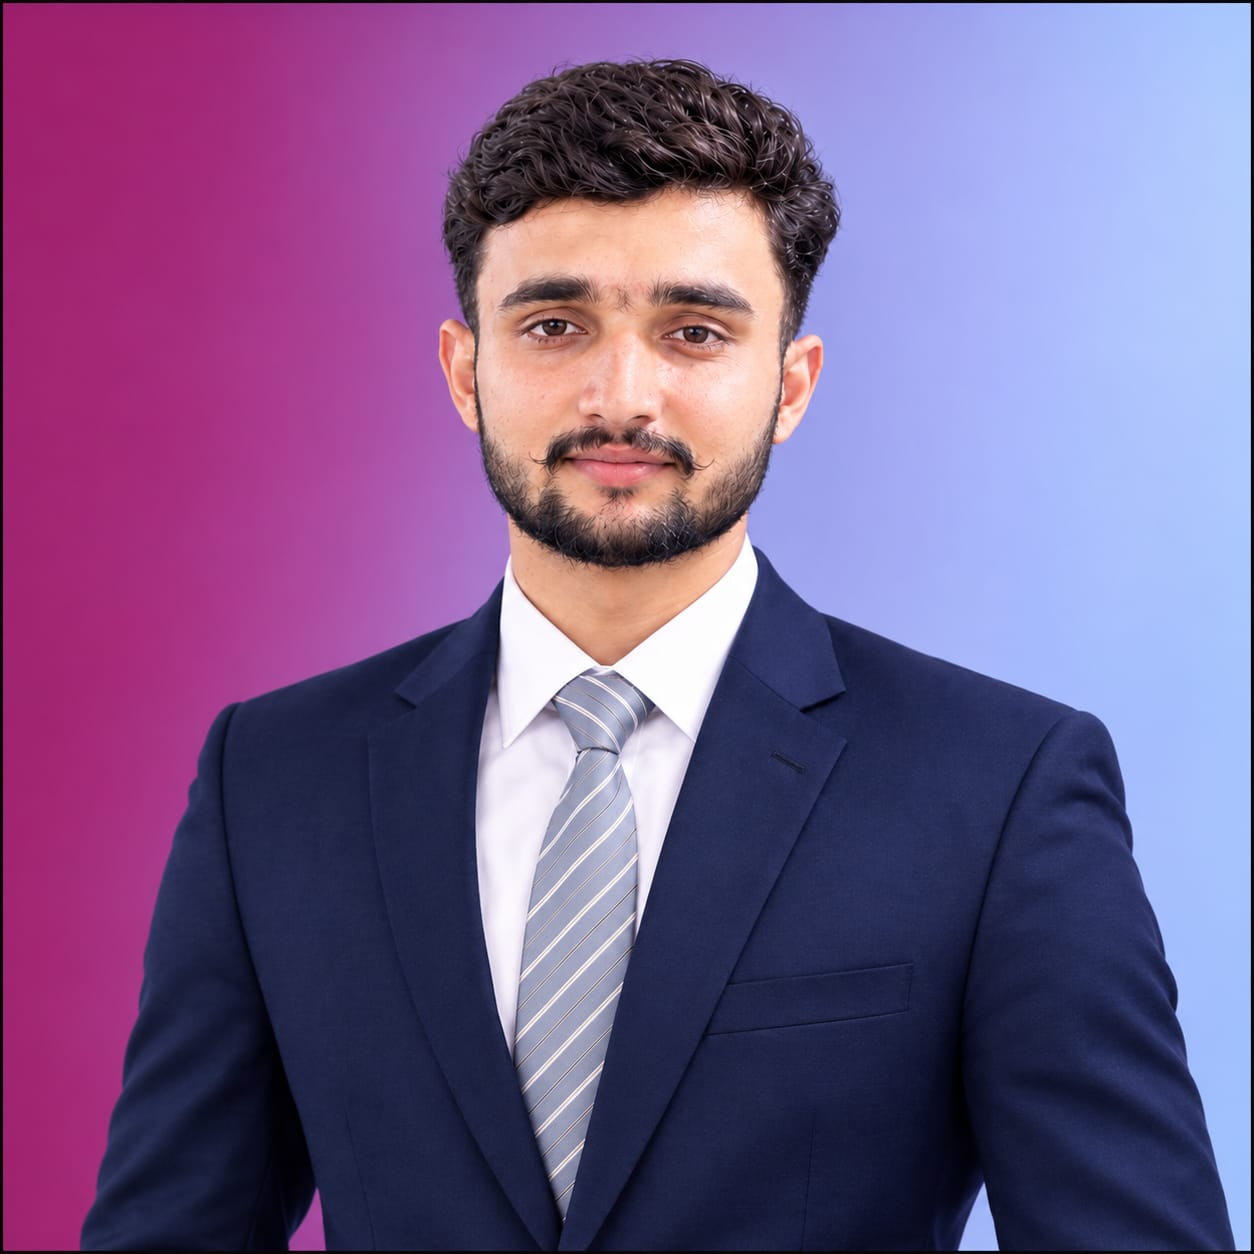
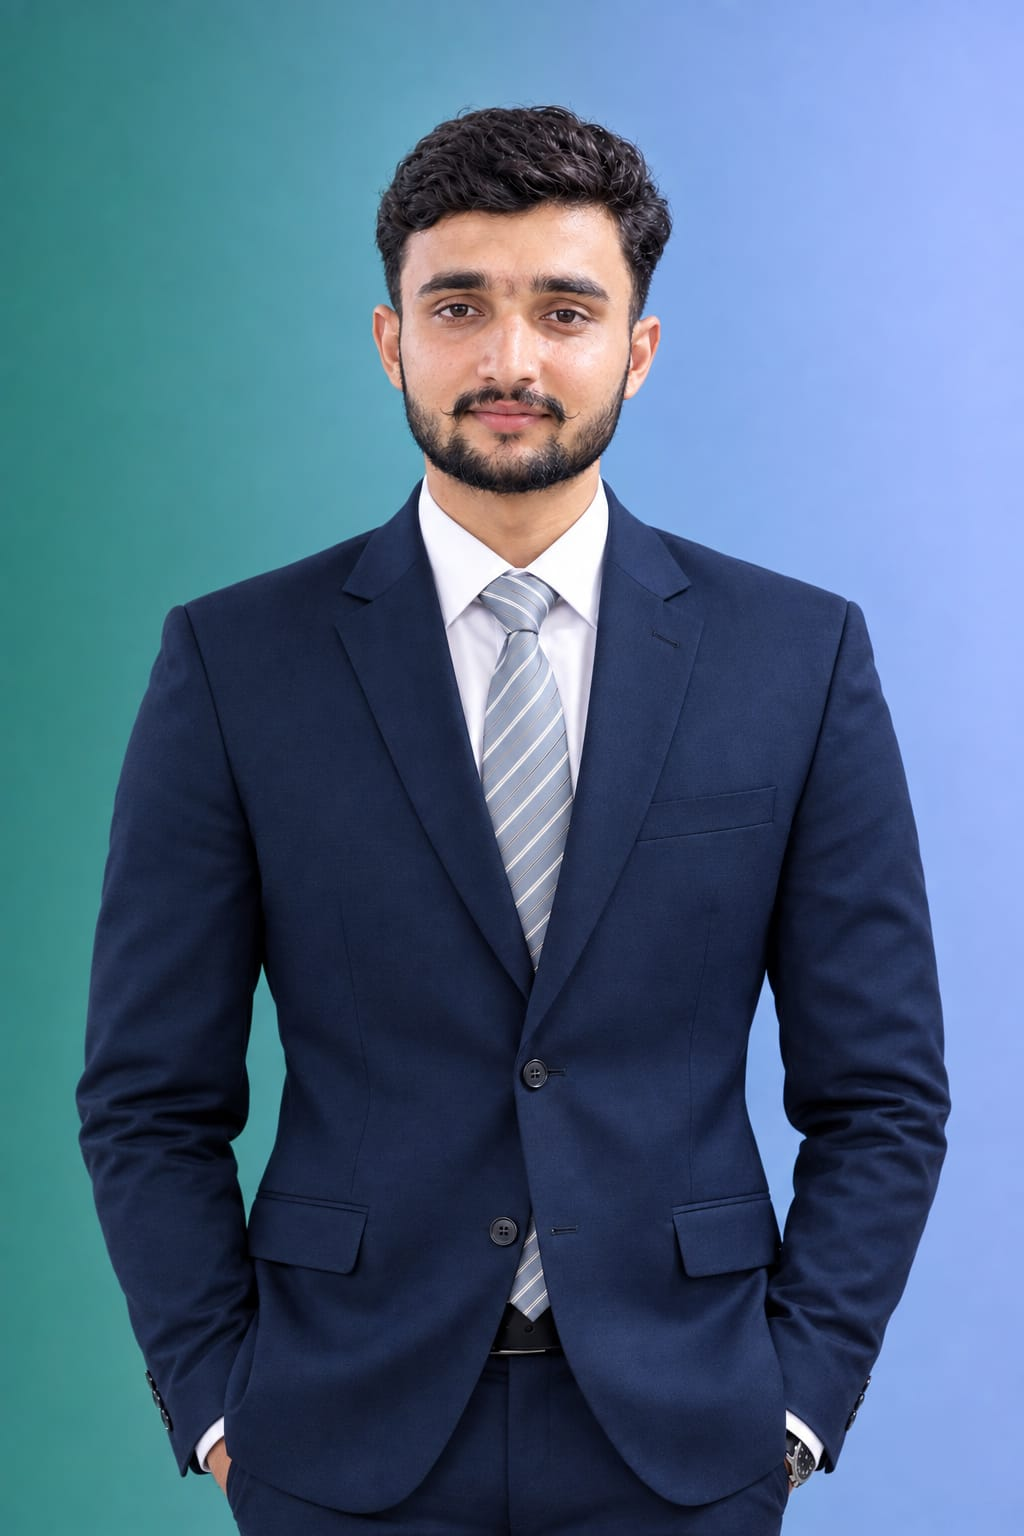
chore: sync updated profile picture asim.jpeg across static and assets with cache-busting

diff --git a/templates/index.html b/templates/index.html
@@ -26,8 +26,8 @@
 <meta property="og:title" content="M. ASIM — Computational Chemistry &amp; Molecular Modeling Portfolio">
 <meta property="og:description" content="Undergraduate BS Chemistry Scholar (5th Semester • CGPA 3.82) at University of Layyah specializing in computational quantum modeling, DFT electronic structure research, and molecular spectroscopy.">
 <meta property="og:url" content="{{ request.base_url if request else 'https://safiullah012.github.io/AsimPortfolio/' }}">
-<meta property="og:image" content="{{ request.url_root.rstrip('/') if request else 'https://safiullah012.github.io/AsimPortfolio' }}/assets/asim.jpeg">
-<meta property="og:image:secure_url" content="{{ request.url_root.rstrip('/') if request else 'https://safiullah012.github.io/AsimPortfolio' }}/assets/asim.jpeg">
+<meta property="og:image" content="{{ request.url_root.rstrip('/') if request else 'https://safiullah012.github.io/AsimPortfolio' }}/assets/asim.jpeg?v=2">
+<meta property="og:image:secure_url" content="{{ request.url_root.rstrip('/') if request else 'https://safiullah012.github.io/AsimPortfolio' }}/assets/asim.jpeg?v=2">
 <meta property="og:image:type" content="image/jpeg">
 <meta property="og:image:width" content="1200">
 <meta property="og:image:height" content="1200">
@@ -42,7 +42,7 @@
 <meta name="twitter:url" content="{{ request.base_url if request else 'https://safiullah012.github.io/AsimPortfolio/' }}">
 <meta name="twitter:title" content="M. ASIM — Computational Chemistry &amp; Molecular Modeling Portfolio">
 <meta name="twitter:description" content="BS Chemistry Scholar (CGPA 3.82) at University of Layyah specializing in computational chemistry, quantum calculations, and molecular modeling.">
-<meta name="twitter:image" content="{{ request.url_root.rstrip('/') if request else 'https://safiullah012.github.io/AsimPortfolio' }}/assets/asim.jpeg">
+<meta name="twitter:image" content="{{ request.url_root.rstrip('/') if request else 'https://safiullah012.github.io/AsimPortfolio' }}/assets/asim.jpeg?v=2">
 <meta name="twitter:image:alt" content="M. Asim - Computational Chemist">
 
 <!-- ══ FAVICON & TOUCH ICONS ══ -->
@@ -340,7 +340,7 @@
         </div>
         <div class="hero-art motion-reveal motion-stagger-2">
           <div class="portrait-card">
-            <img src="assets/asim.jpeg" alt="M. Asim - Computational Chemist" class="portrait-img">
+            <img src="assets/asim.jpeg?v=2" alt="M. Asim - Computational Chemist" class="portrait-img">
             <div class="portrait-overlay"></div>
             <span class="status-chip">THEORETICAL RESEARCH</span>
             <span class="badge">COMPUTATIONAL CHEMISTRY &bull; MOLECULAR MODELING</span>
@@ -363,7 +363,7 @@
       <div class="about-grid">
         <div class="about-visual motion-reveal">
           <div class="portrait-card">
-            <img src="assets/asim.jpeg" alt="M. Asim - Computational Chemist" class="portrait-img">
+            <img src="assets/asim.jpeg?v=2" alt="M. Asim - Computational Chemist" class="portrait-img">
             <div class="portrait-overlay"></div>
             <span class="badge">COMPUTATIONAL CHEMIST</span>
           </div>

diff --git a/index.html b/index.html
@@ -26,8 +26,8 @@
 <meta property="og:title" content="M. ASIM — Computational Chemistry &amp; Molecular Modeling Portfolio">
 <meta property="og:description" content="Undergraduate BS Chemistry Scholar (5th Semester • CGPA 3.82) at University of Layyah specializing in computational quantum modeling, DFT electronic structure research, and molecular spectroscopy.">
 <meta property="og:url" content="https://safiullah012.github.io/AsimPortfolio/">
-<meta property="og:image" content="https://safiullah012.github.io/AsimPortfolio/assets/asim.jpeg">
-<meta property="og:image:secure_url" content="https://safiullah012.github.io/AsimPortfolio/assets/asim.jpeg">
+<meta property="og:image" content="https://safiullah012.github.io/AsimPortfolio/assets/asim.jpeg?v=2">
+<meta property="og:image:secure_url" content="https://safiullah012.github.io/AsimPortfolio/assets/asim.jpeg?v=2">
 <meta property="og:image:type" content="image/jpeg">
 <meta property="og:image:width" content="1200">
 <meta property="og:image:height" content="1200">
@@ -42,7 +42,7 @@
 <meta name="twitter:url" content="https://safiullah012.github.io/AsimPortfolio/">
 <meta name="twitter:title" content="M. ASIM — Computational Chemistry &amp; Molecular Modeling Portfolio">
 <meta name="twitter:description" content="BS Chemistry Scholar (CGPA 3.82) at University of Layyah specializing in computational chemistry, quantum calculations, and molecular modeling.">
-<meta name="twitter:image" content="https://safiullah012.github.io/AsimPortfolio/assets/asim.jpeg">
+<meta name="twitter:image" content="https://safiullah012.github.io/AsimPortfolio/assets/asim.jpeg?v=2">
 <meta name="twitter:image:alt" content="M. Asim - Computational Chemist">
 
 <!-- ══ FAVICON & TOUCH ICONS ══ -->
@@ -334,7 +334,7 @@
         </div>
         <div class="hero-art motion-reveal motion-stagger-2">
           <div class="portrait-card">
-            <img src="assets/asim.jpeg" alt="M. Asim - Computational Chemist" class="portrait-img">
+            <img src="assets/asim.jpeg?v=2" alt="M. Asim - Computational Chemist" class="portrait-img">
             <div class="portrait-overlay"></div>
             <span class="status-chip">THEORETICAL RESEARCH</span>
             <span class="badge">COMPUTATIONAL CHEMISTRY &bull; MOLECULAR MODELING</span>
@@ -357,7 +357,7 @@
       <div class="about-grid">
         <div class="about-visual motion-reveal">
           <div class="portrait-card">
-            <img src="assets/asim.jpeg" alt="M. Asim - Computational Chemist" class="portrait-img">
+            <img src="assets/asim.jpeg?v=2" alt="M. Asim - Computational Chemist" class="portrait-img">
             <div class="portrait-overlay"></div>
             <span class="badge">COMPUTATIONAL CHEMIST</span>
           </div>
